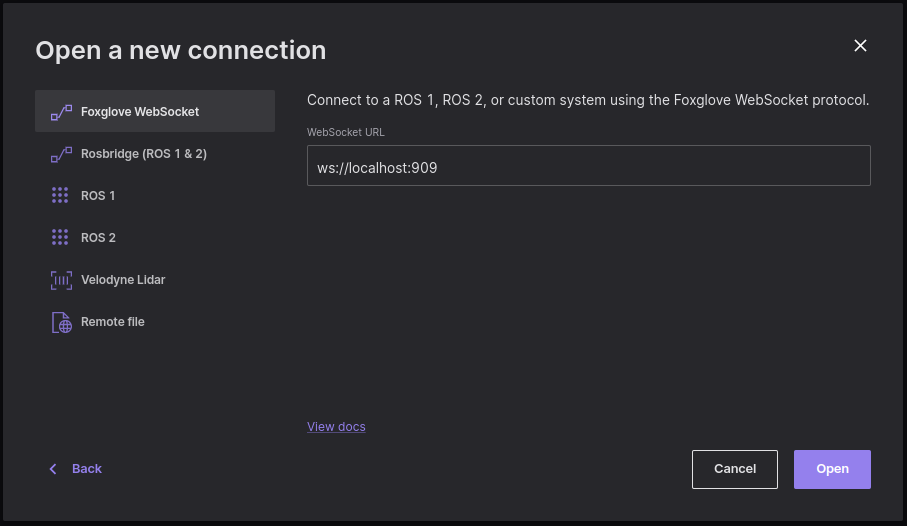
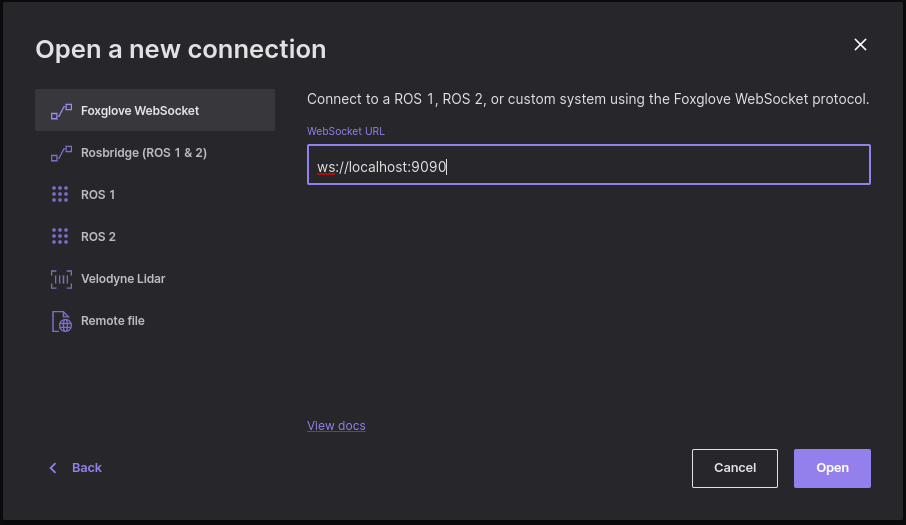
robot setup content filling

diff --git a/docs/noetic/noetic_robot_software_setup.md b/docs/noetic/noetic_robot_software_setup.md
@@ -7,7 +7,64 @@ parent: Noetic version of MuSHR
 nav_order: 2
 ---
 
-# [](#header-1)Noetic Robot Software Setup
+# [](#header-1)Robot Software Setup
+This tutorial will get your car up and running teleoperation.
 
 ## Software Overview
 ![](../../assets/images/software_overview.png)
+
+{: .note }
+The following are required before continuing with installing the necessary libraries.
+- SD card flashed with the latest [NVIDIA Jetpack]{https://developer.nvidia.com/embedded/jetpack} image.
+- Internet (either WiFi or ethernet)
+- Monitor, HDMI cable, mouse, keyboard
+
+## Booting Up
+1. Power on and boot the Jetson. The green light on the right side should turn on.
+2. Plug a monitor, keyboard, and mouse into the car.
+3. Follow the on-screen prompts to complete setup of the Jetson Nano operating system. we suggest using the following values:
+```
+Username: robot
+Name: robot
+Computer Name: goose
+```
+
+## Setup Wi-Fi
+You need to set the car up with a static IP if you want to install additional software on the car, or be able to use the internet on your laptop while connected to the car. But most computers do not have a static IP.
+
+#TODO
+
+## Connect the bluetooth controller
+
+#TODO
+
+## Setup Docker & Install MuSHR stack
+Robot setup is similar to the simulation setup. Follow the following from the [MuSHR simulation setup]{https://anr-multitrans.github.io/Robot_MuSHR/docs/noetic/quickstart_with_foxglove/}.
+
+## Launching Teleoperation
+First, all ROS commands must be run inside a docker container. If you need to create multiple terminal sessions we recommend entering one docker container then using tmux (pre-installed). That way you only need to remember to run mushr_noetic once.
+
+Or if you are using Visual Studio Code, it is even better, because you can check and modifiy the files in it, and create as much terminals as you want. For the first time, you can connet to the car, start the MuSHR_noetic, and then connet to the continar running on the car. After that, Visual Studio Code will remenber it that next time you can start the continar directly with it.
+
+Turn on the car and vesc by plugging their batteries in. Enter the docker container.
+```$ mushr_noetic```
+or
+```$ docker start [container ID]```
+if you don't want to start a new container.
+
+Then in the same terminal (within the Docker container), run teleop.
+```$ roslaunch mushr_base teleop.launch```
+
+You should see the lidar spinning and be able to steer with the controller. (Activate all sensors by default.)
+
+## Teleoperation (manual driving)
+![](../../assets/images/teleop_controls.png)
+
+#TODO
+
+## Visualization
+After starting up, the robot terminal should print out a line similar to ```Rosbridge WebSocket server started at ws://0.0.0.0:9090```.
+
+Unlike simulation, visualization usually is run on a separate computer (though you can install Foxglove on the robot). From the [Foxglov]{https://anr-multitrans.github.io/Robot_MuSHR/docs/noetic/Foxglove/} tutorial complete the following steps on your separate visualization computer.
+
+Fill out the WebSocket URL with the robot’s IP and port that the simulator output before.

diff --git a/docs/noetic/quickstart_with_foxglove.md b/docs/noetic/quickstart_with_foxglove.md
@@ -2,15 +2,13 @@
 noteId: "ba8ab0608d1e11ed8656897383d7b310"
 tags: []
 layout: default
-title: Quickstart with Foxglove
+title: MuSHR simulation setup
 parent: Noetic version of MuSHR
 nav_order: 1
 ---
 
-# Quickstart with Foxglove
-Learn how to simulate the MuSHR Car with Foxglove visualizations.
-
-![](../../assets/images/foxglove.jpg)
+# MuSHR simulation setup
+Learn how to simulate the MuSHR Car.
 
 {: .note }
 This tutorial is for MacOS or Linux users only.
@@ -55,7 +53,7 @@ $ ./mushr/mushr_utils/install/mushr_install.bash
 It will prompt you with two questions.
 
 - For running the MuSHR simulator, the answers should be no, no.
-- For running the MuSHR racecar, the answers should be ?, ?.
+- For running the MuSHR racecar, when ask “Are you installing on robot and need all the sensor drivers? (y/n)” respond “y” so that the sensor drivers are installed.
 
 ---
 
@@ -74,37 +72,5 @@ The first time running this command will take some time to download the Docker i
 
 In the same terminal (within the Docker container), build the MuSHR software stack. (First run or when there is an update.)
 ```$ source .bashrc && cd catkin_ws && catkin build```
-
-## Foxglove Studio
-We can use Foxglove Studio to visualize our robot and map.
-
-### Downloading Foxglove Studio
-{: .note }
-Make sure [foxglove](https://foxglove.dev/download) is the latest version.
-
-### Import layout
-Open Foxglove Studio, and click the “Layouts” button on the left panel (second from top) and then click Import layout button pictured below.
-![](../../assets/images/foxglove_layout (1).png)
-
-Import the preset layout from: ```mushr/mushr_utils/foxglove/foxglove_layout.json```.
-
-### MuSHR panel extension
-Navigate to the Extensions tab (bottom icon on the left panel) and install the MushrTeleop extension from the Marketplace.
-![](../../assets/images/foxglove_extention.jpg)
-
-### Connecting to Data With Foxglove Studio
-Start the Docker container. In the same terminal (within the Docker container), start up the simulator with the command:
-```
-$ roslaunch mushr_sim teleop.launch
-```
-After starting up, the simulator should print out a line similar to ```Rosbridge WebSocket server started at ws://0.0.0.0:9090```
-
-In Foxglove, click the top button in the sidebar, labeled Data source. Then select the Plus button in the left panel. This should open up an interface to connect to data. Click the Open Connection button. 
-![](../../assets/images/import_data.png)
-
-Select Rosbridge (ROS 1 & ROS 2) as shown below.
-![](../../assets/images/new_connection.png)
-Fill out the WebSocket URL with the url and port that the simulator output before.
-Then, click Open in the bottom right corner.
 
 ---

diff --git a/docs/noetic/Foxglov.md b/docs/noetic/Foxglov.md
@@ -1,0 +1,47 @@
+---
+noteId: "01c34620934311ed80cf874835c8bf87"
+tags: []
+layout: default
+title: Autonomous Navigation
+parent: Noetic version of MuSHR
+nav_order: 3
+---
+
+# Foxglov
+
+![](../../assets/images/foxglove.jpg)
+
+{: .note }
+This tutorial is for MacOS or Linux users only.
+
+## Foxglove Studio
+We can use Foxglove Studio to visualize our robot and map.
+
+### Downloading Foxglove Studio
+{: .note }
+Make sure [foxglove](https://foxglove.dev/download) is the latest version.
+
+### Import layout
+Open Foxglove Studio, and click the “Layouts” button on the left panel (second from top) and then click Import layout button pictured below.
+![](../../assets/images/foxglove_layout (1).png)
+
+Import the preset layout from: ```mushr/mushr_utils/foxglove/foxglove_layout.json```.
+
+### MuSHR panel extension
+Navigate to the Extensions tab (bottom icon on the left panel) and install the MushrTeleop extension from the Marketplace.
+![](../../assets/images/foxglove_extention.jpg)
+
+### Connecting to Data With Foxglove Studio
+Start the Docker container. In the same terminal (within the Docker container), start up the simulator with the command:
+```
+$ roslaunch mushr_sim teleop.launch
+```
+After starting up, the simulator should print out a line similar to ```Rosbridge WebSocket server started at ws://0.0.0.0:9090```
+
+In Foxglove, click the top button in the sidebar, labeled Data source. Then select the Plus button in the left panel. This should open up an interface to connect to data. Click the Open Connection button. 
+![](../../assets/images/import_data.png)
+
+Select Rosbridge (ROS 1 & ROS 2) as shown below.
+![](../../assets/images/new_connection.png)
+Fill out the WebSocket URL with the url and port that the simulator output before.
+Then, click Open in the bottom right corner.

diff --git a/docs/noetic/noetic_version.md b/docs/noetic/noetic_version.md
@@ -3,7 +3,7 @@ noteId: "5de160208d1e11ed8656897383d7b310"
 tags: []
 layout: default
 title: Noetic version of MuSHR
-nav_order: 4
+nav_order: 5
 has_children: true
 permalink: /docs/noetic
 ---

diff --git a/docs/noetic/auto_navigation.md b/docs/noetic/auto_navigation.md
@@ -4,7 +4,7 @@ tags: []
 layout: default
 title: Autonomous Navigation
 parent: Noetic version of MuSHR
-nav_order: 3
+nav_order: 4
 ---
 
 # [](#header-1)Autonomous Navigation
